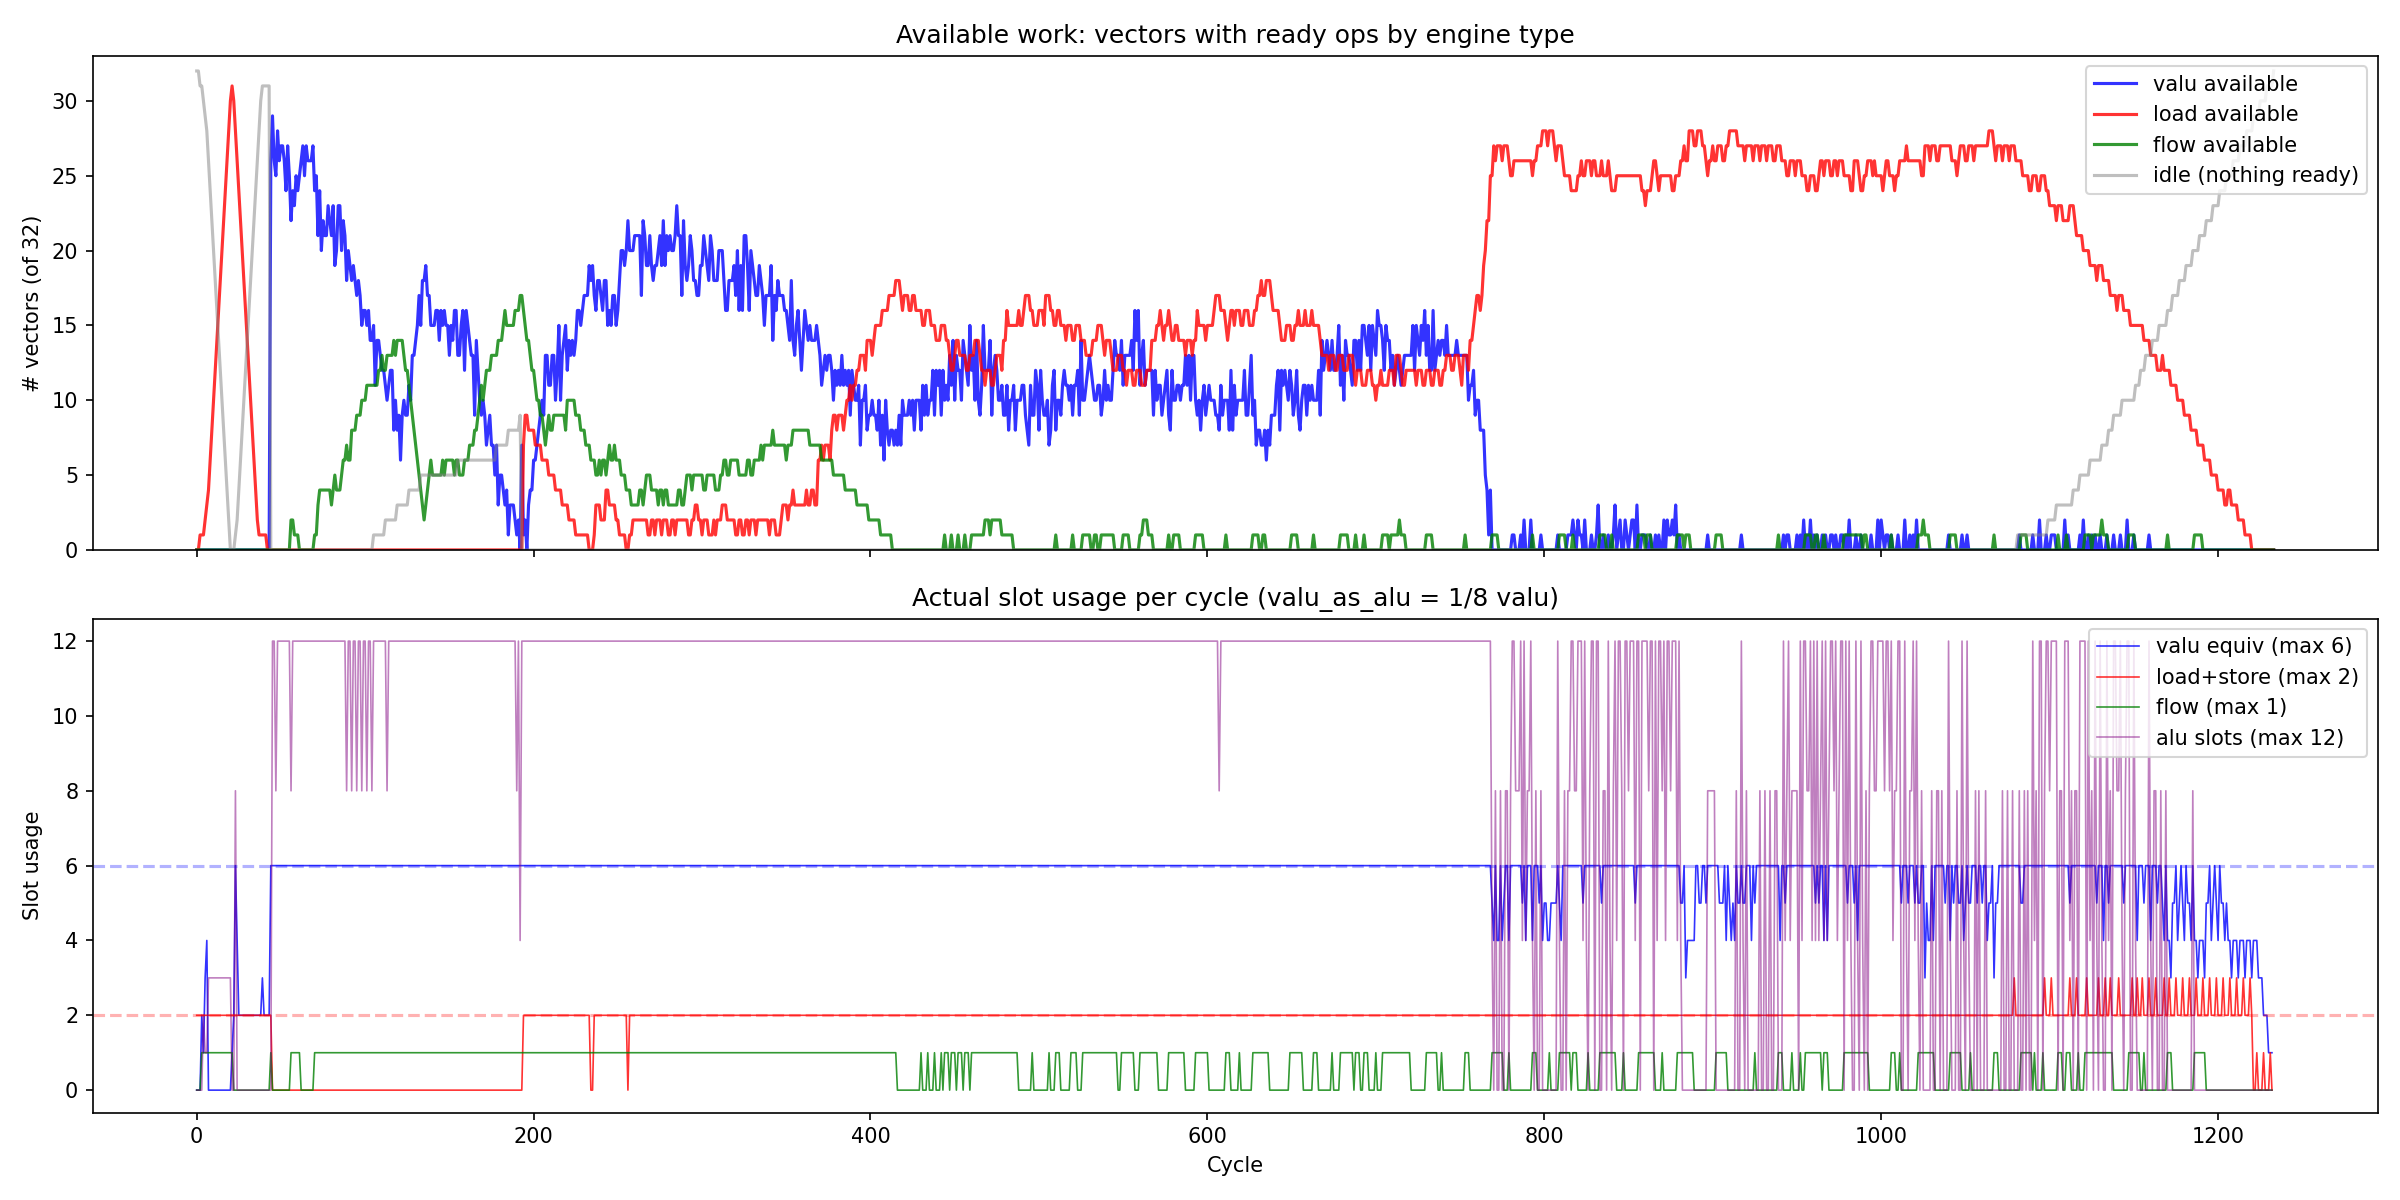
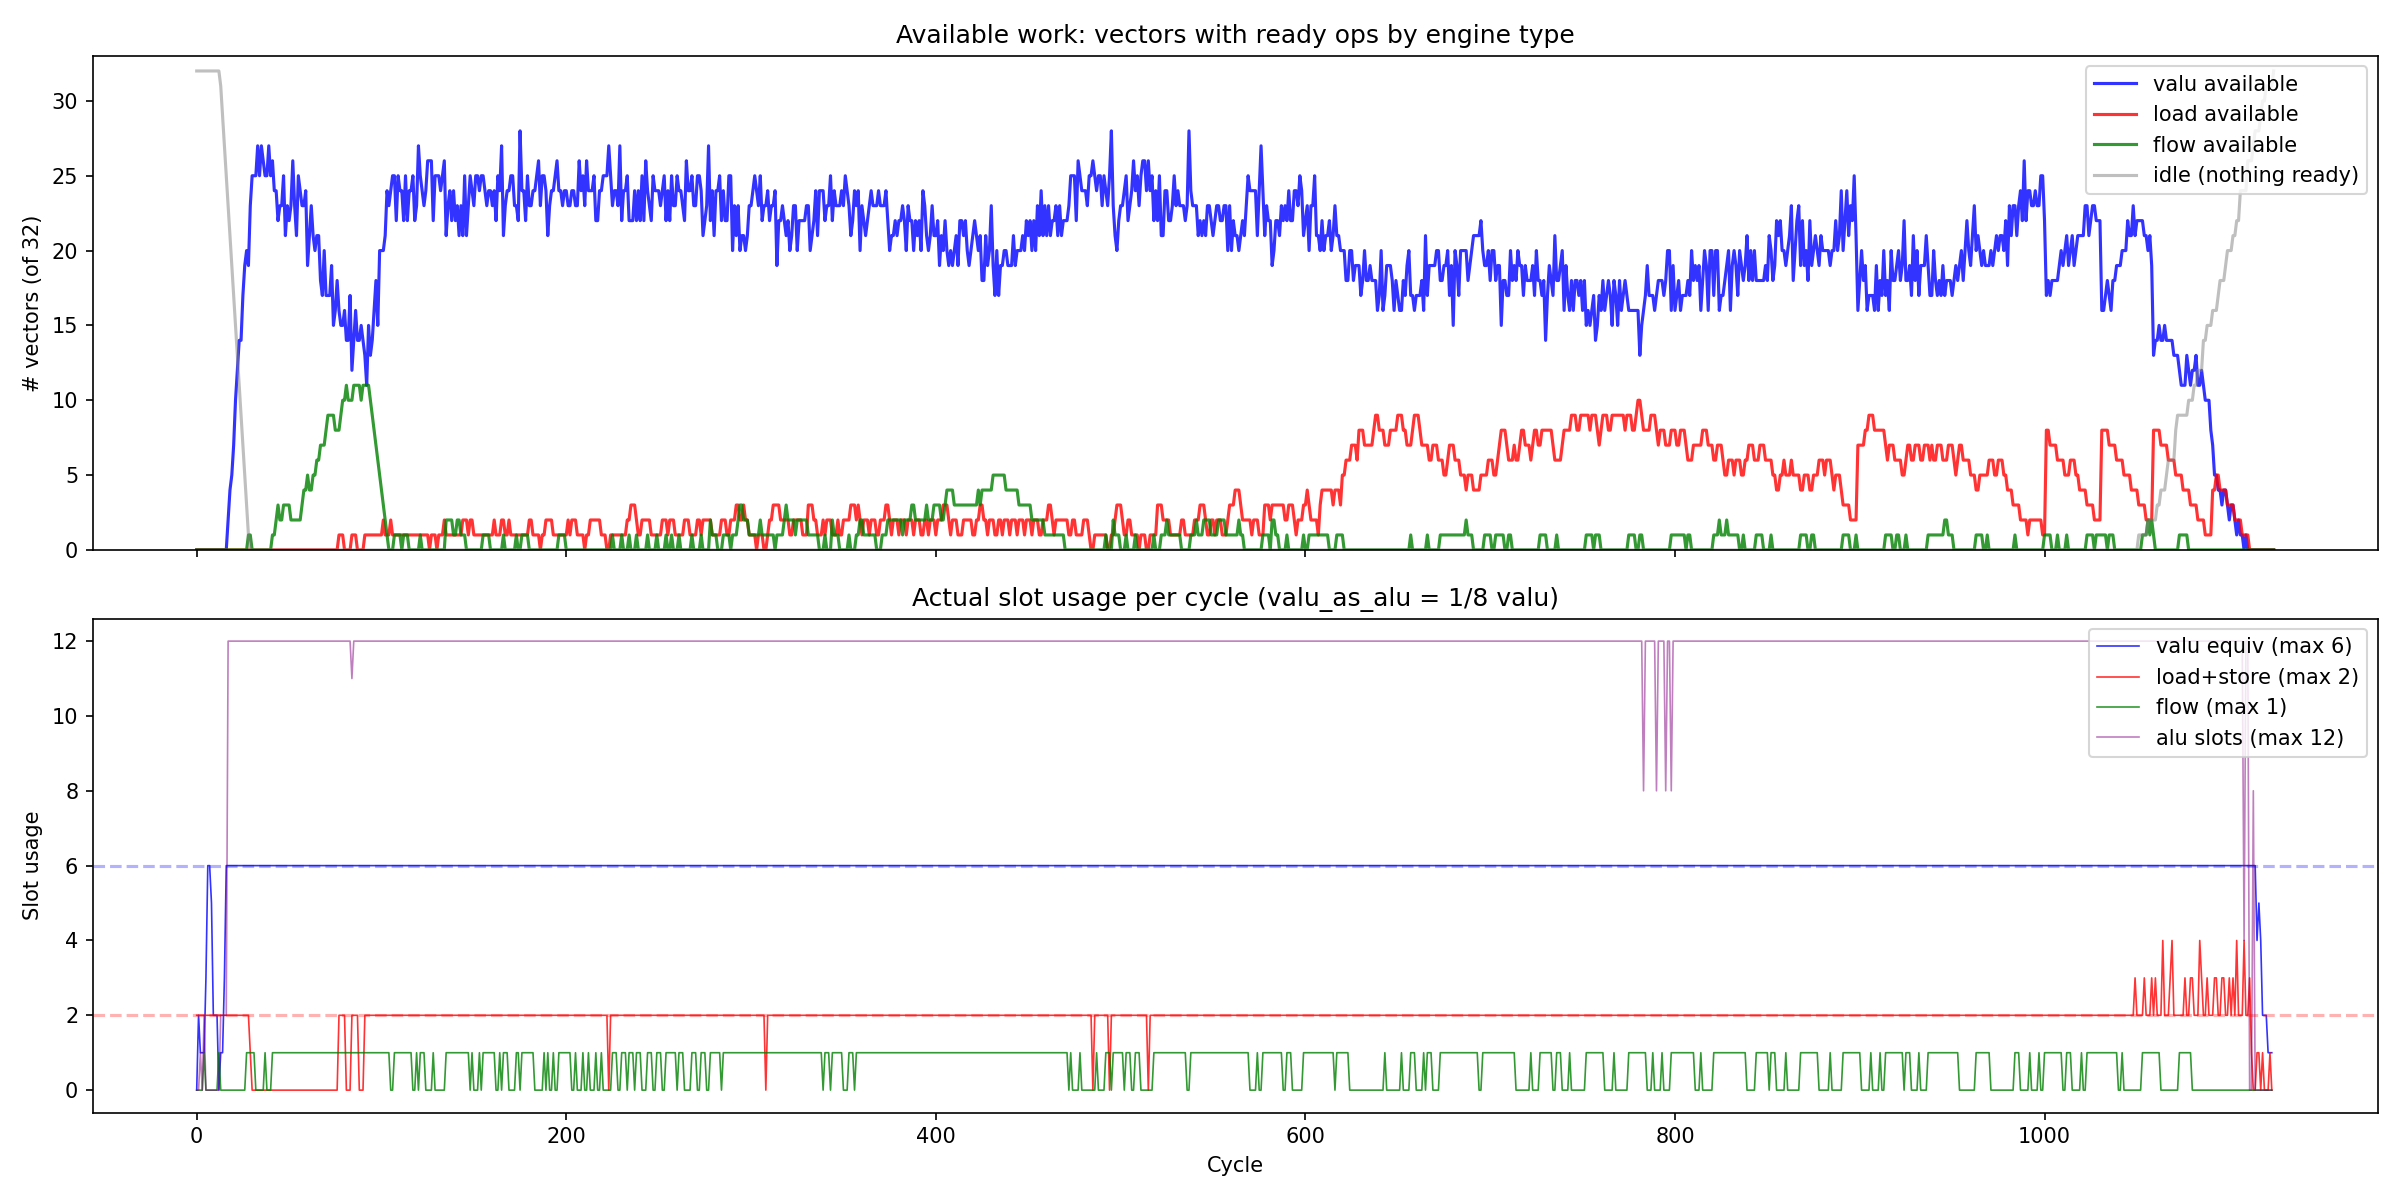
use alu ops to compute constants instead of load const during setup

diff --git a/perf_takehome.py b/perf_takehome.py
@@ -1324,7 +1324,6 @@ class KernelBuilder:
     def debug_info(self):
         return DebugInfo(
             scratch_map=self.scratch_debug,
-            slot_sched_info=getattr(self, 'slot_sched_info', None),
         )
 
     def new_vreg(self, name_hint="", size=1):
@@ -1532,34 +1531,29 @@ class KernelBuilder:
     def setup_kernel_scratch_and_constants(self):
         """Allocate scratch space, load kernel parameters, and register constants.
 
-        Returns (zero_const, one_const, two_const, param_vregs).
+        Returns (one_const, two_const, four_const, eight_const, param_vregs).
+        Derived constants (2, 4, 6, 8) are vregs defined by ALU ops in build_kernel.
         """
-        # Only load parameters actually used at runtime
+        # Only const-load 1 as fundamental; 2, 4, 6, 8 computed via ALU doubling
+        one_const = self.scratch_const(1)
+        two_const = self.new_vreg("two_const")
+        four_const = self.new_vreg("four_const")
+        six_const = self.new_vreg("six_const")
+        eight_const = self.new_vreg("eight_const")
+
+        # Param vregs (mem loads emitted in build_kernel after ALU chain defines addresses)
         # Memory header: [rounds=0, n_nodes=1, batch_size=2, forest_height=3,
         #                  forest_values_p=4, inp_indices_p=5, inp_values_p=6]
-        needed_params = {
-            "forest_values_p": 4,
-            "inp_values_p": 6,
-        }
         param_vregs = {}
-        for v, mem_idx in needed_params.items():
-            # forest_values_p only used once (for broadcast), so don't pin it
-            if v == "forest_values_p":
-                param_vregs[v] = self.new_vreg(v)
-            else:
-                param_vregs[v] = self.pinned_vreg(v)
-            tmp = self.new_vreg(f"param_idx_{mem_idx}")
-            self.pending_const_loads.append(("load", ("const", tmp, mem_idx)))
-            self.pending_mem_loads.append(("load", ("load", param_vregs[v], tmp)))
+        param_vregs["forest_values_p"] = self.new_vreg("forest_values_p")
+        param_vregs["inp_values_p"] = self.pinned_vreg("inp_values_p")
 
-        # Pre-load basic constants and hash constants
-        one_const = self.scratch_const(1)
-        two_const = self.scratch_const(2)
+        # Pre-load hash constants
         for _, val1, _, _, val3 in HASH_STAGES:
             self.scratch_const(val1)
             self.scratch_const(val3)
 
-        return one_const, two_const, param_vregs
+        return one_const, two_const, four_const, six_const, eight_const, param_vregs
 
     def build_kernel(
         self, forest_height: int, n_nodes: int, batch_size: int, rounds: int,
@@ -1570,7 +1564,7 @@ class KernelBuilder:
         Each write creates a fresh vreg (SSA form).
         """
         # Setup phase: allocate scratch and register constants
-        one_const, two_const, param_vregs = self.setup_kernel_scratch_and_constants()
+        one_const, two_const, four_const, six_const, eight_const, param_vregs = self.setup_kernel_scratch_and_constants()
 
         # Emit pause immediately (no-op sync point for reference_kernel2)
         self.add("flow", ("pause",))
@@ -1586,6 +1580,16 @@ class KernelBuilder:
             for s in slots:
                 emit(s, vi, rnd)
 
+        # Compute derived constants via ALU doubling chain (saves 4 const loads)
+        emit(("alu", ("+", two_const, one_const, one_const)))
+        emit(("alu", ("+", four_const, two_const, two_const)))
+        emit(("alu", ("+", six_const, four_const, two_const)))
+        emit(("alu", ("+", eight_const, four_const, four_const)))
+
+        # Param mem loads (emitted here so DAG sees ALU-computed address deps)
+        emit(("load", ("load", param_vregs["forest_values_p"], four_const)))
+        emit(("load", ("load", param_vregs["inp_values_p"], six_const)))
+
         # Pinned vregs for broadcast constants (allocated once, used throughout)
         one_vec = self.pinned_vreg("one_vec", VLEN)
         two_vec = self.pinned_vreg("two_vec", VLEN)
@@ -1594,8 +1598,8 @@ class KernelBuilder:
 
         emit(("valu", ("vbroadcast", one_vec, one_const)))
         emit(("valu", ("vbroadcast", two_vec, two_const)))
-        emit(("valu", ("vbroadcast", four_vec, self.scratch_const(4))))
-        emit(("valu", ("vbroadcast", eight_vec, self.scratch_const(8))))
+        emit(("valu", ("vbroadcast", four_vec, four_const)))
+        emit(("valu", ("vbroadcast", eight_vec, eight_const)))
         # 1-based indexing: gather uses (forest_p - 1) + idx'
         # Scalar subtract then broadcast (2 ops instead of 3)
         minus_one_const = self.scratch_const(0xFFFFFFFF)  # -1 mod 2^32
@@ -1620,24 +1624,30 @@ class KernelBuilder:
 
         n_vectors = batch_size // VLEN
 
-        # Pre-register offset constants so they're in the batch
-        for vi in range(n_vectors):
-            self.scratch_const(vi * VLEN)
-
         # Load values from memory; indices all start at 0 (1-based: one_vec)
         idx_vecs = [one_vec] * n_vectors
+
+        # Compute val_bases incrementally using stride-2 ALU chain
+        sixteen_const = self.new_vreg("sixteen_const")
+        emit(("alu", ("+", sixteen_const, eight_const, eight_const)))
+
+        val_bases = []
+        for vi in range(n_vectors):
+            if vi == 0:
+                val_bases.append(param_vregs["inp_values_p"])
+            elif vi == 1:
+                vb = self.new_vreg(f"val_base_v{vi}")
+                emit(("alu", ("+", vb, param_vregs["inp_values_p"], eight_const)))
+                val_bases.append(vb)
+            else:
+                vb = self.new_vreg(f"val_base_v{vi}")
+                emit(("alu", ("+", vb, val_bases[vi - 2], sixteen_const)))
+                val_bases.append(vb)
+
         val_vecs = []
         for vi in range(n_vectors):
-            offset_imm = vi * VLEN
-            if offset_imm == 0:
-                val_base = param_vregs["inp_values_p"]
-            else:
-                offset_const = self.scratch_const(offset_imm)
-                val_base = self.new_vreg(f"val_base_init_v{vi}")
-                emit(("flex_alu_add", ("+", val_base, param_vregs["inp_values_p"], offset_const, offset_imm)), vi=vi, rnd=-1)
-
             val_v = self.new_vreg_vec(f"val_init_v{vi}")
-            emit(("load", ("vload", val_v, val_base)), vi=vi, rnd=-1)
+            emit(("load", ("vload", val_v, val_bases[vi])), vi=vi, rnd=-1)
             val_vecs.append(val_v)
 
         # Main loop: all rounds, reading/writing scratch VRegs (no memory round-trip)
@@ -1705,16 +1715,9 @@ class KernelBuilder:
             idx_vecs = new_idx_vecs
             val_vecs = new_val_vecs
 
-        # Store final values back to memory (indices not checked by submission test)
+        # Store final values back to memory (reuse val_bases from setup)
         for vi in range(n_vectors):
-            offset_imm = vi * VLEN
-            if offset_imm == 0:
-                val_base = param_vregs["inp_values_p"]
-            else:
-                offset_const = self.scratch_const(offset_imm)
-                val_base = self.new_vreg(f"val_base_final_v{vi}")
-                emit(("flex_alu_add", ("+", val_base, param_vregs["inp_values_p"], offset_const, offset_imm)), vi=vi, rnd=rounds)
-            emit(("store", ("vstore", val_base, val_vecs[vi])), vi=vi, rnd=rounds)
+            emit(("store", ("vstore", val_bases[vi], val_vecs[vi])), vi=vi, rnd=rounds)
 
         # Prepend all setup loads to body for scheduling
         setup_slots = self.pending_const_loads + self.pending_mem_loads

diff --git a/problem.py b/problem.py
@@ -39,8 +39,6 @@ class DebugInfo:
 
     # Maps scratch variable addr to (name, len) pair
     scratch_map: dict[int, (str, int)]
-    # Maps (pc, engine, slot_index) to scheduling metadata dict
-    slot_sched_info: dict[tuple, dict] = None
 
 
 def cdiv(a, b):
@@ -347,56 +345,8 @@ class Machine:
                 )
 
     def trace_slot(self, core, slot, name, i):
-        sched_str = ""
-        named_str = str(self.rewrite_slot(slot))  # fallback
-        if self.debug_info.slot_sched_info is not None:
-            key = (core.pc - 1, name, i)
-            info = self.debug_info.slot_sched_info.get(key)
-            if info:
-                # Use vreg names captured at scheduling time (correct despite address reuse)
-                if "named" in info:
-                    named_str = info["named"]
-                delay = info["sched"] - info["ready"]
-                pressure = info.get("pressure", "")
-                pressure_str = f', "pressure": {pressure}' if pressure != "" else ""
-                vi = info.get("vi", "")
-                vi_str = f', "vi": {vi}' if vi != "" else ""
-                rnd = info.get("rnd", "")
-                rnd_str = f', "rnd": {rnd}' if rnd != "" else ""
-                dtl = info.get("dist_to_load", "")
-                dtl_str = f', "dist_to_load": {dtl}' if dtl != "" else ""
-                sched_str = f', "ready_cycle": {info["ready"]}, "sched_cycle": {info["sched"]}, "delay": {delay}{pressure_str}{vi_str}{rnd_str}{dtl_str}'
-                deps = info.get("deps", [])
-                if deps:
-                    # Format: "op1@cycle1, op2@cycle2" — show blocking dep (latest) first
-                    dep_strs = sorted(deps, key=lambda d: -d["cycle"])
-                    deps_fmt = "; ".join(f'{d["op"]}@{d["cycle"]}' for d in dep_strs)
-                    deps_fmt = deps_fmt.replace('"', '\\"')
-                    sched_str += f', "deps": "{deps_fmt}"'
-                    if dep_strs:
-                        blocker = dep_strs[0]
-                        blocker_str = f'{blocker["op"]}@{blocker["cycle"]}'.replace('"', '\\"')
-                        sched_str += f', "blocked_by": "{blocker_str}"'
-                # Record trace coordinates for flow events
-                op_id = info.get("op_id")
-                if op_id is not None:
-                    tid = self.tids[(core.id, name, i)]
-                    if not hasattr(self, '_op_coords'):
-                        self._op_coords = {}
-                    # Only record first occurrence (for expanded valu_as_alu)
-                    if op_id not in self._op_coords:
-                        self._op_coords[op_id] = (core.id, tid, self.cycle)
-                    # Record dep edges for flow event emission
-                    if not hasattr(self, '_dep_edges'):
-                        self._dep_edges = []
-                    for dep in deps:
-                        dep_op_id = dep.get("op_id")
-                        if dep_op_id is not None:
-                            self._dep_edges.append((dep_op_id, op_id))
-        # Escape any quotes in named_str for JSON safety
-        named_str = str(named_str).replace('"', '\\"')
         self.trace.write(
-            f'{{"name": "{slot[0]}", "cat": "op", "ph": "X", "pid": {core.id}, "tid": {self.tids[(core.id, name, i)]}, "ts": {self.cycle}, "dur": 1, "args":{{"slot": "{str(slot)}", "named": "{named_str}"{sched_str} }} }},\n'
+            f'{{"name": "{slot[0]}", "cat": "op", "ph": "X", "pid": {core.id}, "tid": {self.tids[(core.id, name, i)]}, "ts": {self.cycle}, "dur": 1, "args":{{"slot": "{str(slot)}", "named": "{str(self.rewrite_slot(slot))}" }} }},\n'
         )
 
     def step(self, instr: Instruction, core):
@@ -448,26 +398,6 @@ class Machine:
 
     def __del__(self):
         if self.trace is not None:
-            # Emit flow events for dependency arrows
-            op_coords = getattr(self, '_op_coords', {})
-            dep_edges = getattr(self, '_dep_edges', {})
-            seen_edges = set()
-            flow_id = 0
-            for from_id, to_id in dep_edges:
-                edge = (from_id, to_id)
-                if edge in seen_edges:
-                    continue
-                seen_edges.add(edge)
-                if from_id in op_coords and to_id in op_coords:
-                    f_pid, f_tid, f_ts = op_coords[from_id]
-                    t_pid, t_tid, t_ts = op_coords[to_id]
-                    self.trace.write(
-                        f'{{"name": "dep", "cat": "dep", "ph": "s", "pid": {f_pid}, "tid": {f_tid}, "ts": {f_ts}, "id": {flow_id}}},\n'
-                    )
-                    self.trace.write(
-                        f'{{"name": "dep", "cat": "dep", "ph": "f", "pid": {t_pid}, "tid": {t_tid}, "ts": {t_ts}, "id": {flow_id}, "bp": "e"}},\n'
-                    )
-                    flow_id += 1
             self.trace.write("]")
             self.trace.close()
 
